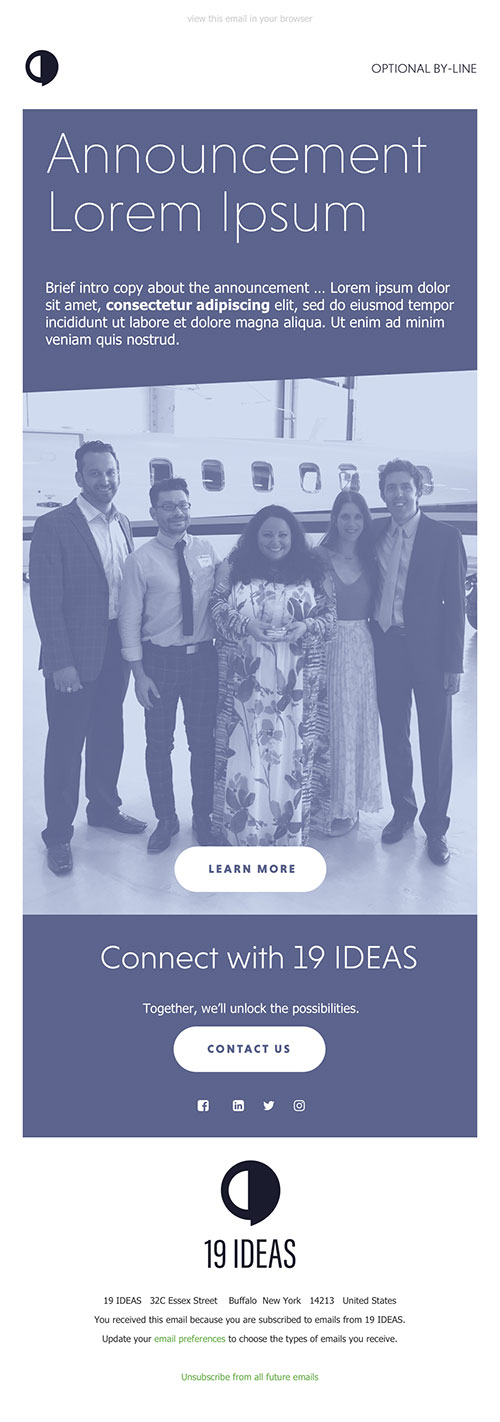
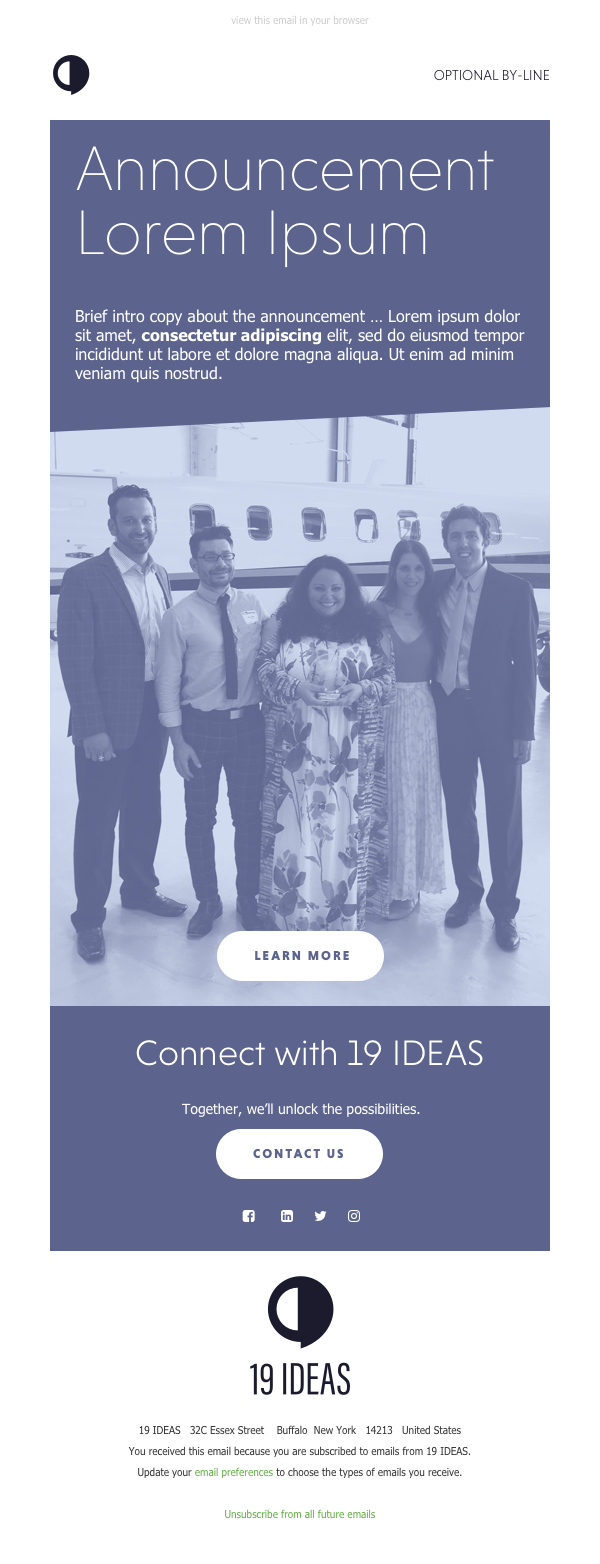
Format and Content
Tweaked some responve layouts on the case studies and added email designs to 19 IDEAS page

diff --git a/work/19-ideas.html b/work/19-ideas.html
@@ -57,19 +57,19 @@
     <!-- Overview -->
     <div class="container">
       <div class="row">
-        <div class="col-lg-4 col-md-4 col-sm-12">
+        <div class="col-lg-4 col-md-6 col-sm-12">
           <h4>CHALLENGE</h4>
           <p>19 IDEAS underwent a ground up complete rebrand in which everyone in the company had a hand in it from the design to the&nbsp;messaging.</p>
         </div>
         <div class="mobile-small-gap"></div>
-        <div class="col-lg-4 col-md-4 col-sm-12">
+        <div class="col-lg-4 col-md-6 col-sm-12">
           <h4>OUTCOME</h4>
           <p>My role was helping expand the brand based on my colleague's logo design and lead the design of our new&nbsp;website.</p>
         </div>
-        <div class="col-lg-1 col-md-1 col-sm-12">
+        <div class="col-lg-1 col-md-12 col-sm-12">
           <div class="gap"></div>
         </div>
-        <div class="col-lg-3 col-md-3 col-sm-12">
+        <div class="col-lg-3 col-md-12 col-sm-12">
           <h4>COMPLETED</h4>
           <ul class="services">
             <li class="services">User Experience</li>
@@ -139,7 +139,32 @@
         </div>
         <div class="gap"></div>
       </div>
-    </div>
+      <div class="row">
+        <div class="gap"></div>
+        <div class="col-lg-12">
+          <h3>HUBSPOT EMAILS</h3>
+        </div>
+        <div class="col-lg-12">
+          <p>For 19 IDEAS I worked to design and build a suite of emails in their Hubspot marketing platform. These included an email newsletter (which highlighted monthly articles, past work, and company updates), a website reporting email to offer insights to client's websites, and emails for big announcements and invitations.</p>
+        </div>
+        <div class="gap"></div>
+        <div class="col-lg-3 col-md-6 col-sm-12">
+          <img class="webpage-showcase" alt="19 IDEAS Newsletter" src="../images/work/19ideas/19-ideas-email-newsletter.jpg">
+        </div>
+        <div class="mobile-small-gap"></div>
+        <div class="col-lg-3 col-md-6 col-sm-12">
+          <img class="webpage-showcase" alt="19 IDEAS Reporting Email" src="../images/work/19ideas/19-ideas-email-reporting-email.jpg">
+        </div>
+        <div class="mobile-small-gap"></div>
+        <div class="col-lg-3 col-md-6 col-sm-12">
+          <img class="webpage-showcase" alt="19 IDEAS Announcment Email" src="../images/work/19ideas/19-ideas-email-announcment.jpg">
+        </div>
+        <div class="mobile-small-gap"></div>
+        <div class="col-lg-3 col-md-6 col-sm-12">
+          <img class="webpage-showcase" alt="19 IDEAS Email Invitation" src="../images/work/19ideas/19-ideas-email-invitation.jpg">
+        </div>
+        <div class="gap"></div>
+      </div>    </div>
     <!-- Connect & Next Project -->
     <div class="dot-grid">
       <div class="container" id="connect" style="padding: 0;">
@@ -155,7 +180,7 @@
             <h3>CONNECT</h3>
             <h4>LET'S WORK TOGETHER</h4>
             <p>Interested in starting a project? <strong>let's talk</strong></p>
-            <a href="contact.html" class="btn btn-primary">Connect</a>
+            <a href="../contact.html" class="btn btn-primary">Connect</a>
           </div>
         </div>
       </div>

diff --git a/work/trocaire-college.html b/work/trocaire-college.html
@@ -57,18 +57,19 @@
     <!-- Overview -->
     <div class="container">
       <div class="row">
-        <div class="col-lg-4 col-md-4 col-sm-12">
+        <div class="col-lg-4 col-md-6 col-sm-12">
           <h4>CHALLENGE</h4>
           <p>Trocaire College recognized the need to update their web and digital presence. This would include a new website, messaging, and digital marketing. Their goals included increasing enrollment, improving attendance at admissions events and developing a stronger digital connection with their&nbsp;audience.</p>
         </div>
-        <div class="col-lg-4 col-md-4 col-sm-12">
+        <div class="mobile-small-gap"></div>
+        <div class="col-lg-4 col-md-6 col-sm-12">
           <h4>OUTCOME</h4>
           <p>My role in the process was designing the user experience and user interface of the new website, helping out with messaging and integrating that into a design, and designing various digital materials used in marketing&nbsp;campaigns.</p>
         </div>
-        <div class="col-lg-1 col-md-1 col-sm-12">
+        <div class="col-lg-1 col-md-12 col-sm-12">
           <div class="gap"></div>
         </div>
-        <div class="col-lg-3 col-md-3 col-sm-12">
+        <div class="col-lg-3 col-md-12 col-sm-12">
           <h4>COMPLETED</h4>
           <ul class="services">
             <li class="services">User Experience</li>
@@ -96,7 +97,7 @@
                 <div class="col-lg-6 col-md-6">
                   <object style="width: 48px; margin-left: -5px; margin-top: 1em;" type="image/svg+xml" data="../images/icons/increased-icon.svg"></object>
                   <h4>Increased <span style="font-family: 'montserratregular';">application and acceptance rate</span></h4>
-                  <object style="width: 48px; margin-left: -5px; margin-top: 1em;" type="image/svg+xml" data="../images/icons/increased-icon.svg"></object>
+                  <object style="width: 48px; margin-left: -5px; margin-top: 1em;" type="image/svg+xml" data="../images/icons/check-icon.svg"></object>
                   <h4>Exceeded <span style="font-family: 'montserratregular';">enrollment goals by</span> 17.5 percent <span style="font-family: 'montserratregular';">year one</span> </h4>
                 </div>
               </div>

diff --git a/work/hodgson-russ.html b/work/hodgson-russ.html
@@ -57,19 +57,19 @@
     <!-- Overview -->
     <div class="container">
       <div class="row">
-        <div class="col-lg-4 col-md-4 col-sm-12">
+        <div class="col-lg-4 col-md-6 col-sm-12">
           <h4>CHALLENGE</h4>
           <p>Hodgson Russ came to 19 IDEAS to design and develop two landing pages for their company. The first was for <span style="font-family: 'montserratextrabold';">Community Voices</span> which was to become a digital space dedicated to the recognition of inspirational nonprofits instilling meaningful change in Buffalo, New York. The second was for their <span style="font-family: 'montserratextrabold';">Whistleblower Practice</span> division of Hodgson Russ. The challenge was explaining the dense subject matter in a way that reflected the tenets of expertise, compassion, sensitivities and respect that resonate with any prospective client.</p>
         </div>
         <div class="mobile-small-gap"></div>
-        <div class="col-lg-4 col-md-4 col-sm-12">
+        <div class="col-lg-4 col-md-6 col-sm-12">
           <h4>OUTCOME</h4>
           <p>We delivered to responsive modern landing pages that clearly communicate their messages. <span style="font-family: 'montserratextrabold';">Community Voices</span> became an interactive destination for inspirational stories. While the <span style="font-family: 'montserratextrabold';">Whistleblower Practice</span> page gives a new approachable and digestible overview of their whistleblower offerings.</p>
         </div>
-        <div class="col-lg-1 col-md-1 col-sm-12">
+        <div class="col-lg-1 col-md-12 col-sm-12">
           <div class="gap"></div>
         </div>
-        <div class="col-lg-3 col-md-3 col-sm-12">
+        <div class="col-lg-3 col-md-12 col-sm-12">
           <h4>COMPLETED</h4>
           <ul class="services">
             <li class="services">User Experience</li>

diff --git a/work/mike-cardus.html b/work/mike-cardus.html
@@ -57,19 +57,19 @@
     <!-- Overview -->
     <div class="container">
       <div class="row">
-        <div class="col-lg-4 col-md-4 col-sm-12">
+        <div class="col-lg-4 col-md-6 col-sm-12">
           <h4>CHALLENGE</h4>
           <p>Mike Cardus is an organization development professional and leadership coach who has received various accolades within his industry. Cardus has created numerous programs and published works helping companies and individuals worldwide. The 19 IDEAS team presented Cardus a new brand, accompanying collateral, messaging, website, and product&nbsp;design.</p>
         </div>
         <div class="mobile-small-gap"></div>
-        <div class="col-lg-4 col-md-4 col-sm-12">
+        <div class="col-lg-4 col-md-6 col-sm-12">
           <h4>OUTCOME</h4>
           <p>The 19 IDEAS team presented Cardus a new brand, accompanying collateral, messaging, website, and product design. My role included fleshing out the brand based on the work created by my colleagues, designing his new website, along with his first product, and subsequently an expansion and refresh of that same&nbsp;product.</p>
         </div>
-        <div class="col-lg-1 col-md-1 col-sm-12">
+        <div class="col-lg-1 col-md-12 col-sm-12">
           <div class="gap"></div>
         </div>
-        <div class="col-lg-3 col-md-3 col-sm-12">
+        <div class="col-lg-3 col-md-12 col-sm-12">
           <h4>COMPLETED</h4>
           <ul class="services">
             <li class="services">User Experience</li>

diff --git a/work/person-centered-services.html b/work/person-centered-services.html
@@ -57,19 +57,19 @@
     <!-- Overview -->
     <div class="container">
       <div class="row">
-        <div class="col-lg-4 col-md-4 col-sm-12">
+        <div class="col-lg-4 col-md-6 col-sm-12">
           <h4>CHALLENGE</h4>
           <p>Person Centered Services came to 19 IDEAS in search for a new look to roll out alongside with their becoming a Care Coordination Organization this&nbsp;year.</p>
         </div>
         <div class="mobile-small-gap"></div>
-        <div class="col-lg-4 col-md-4 col-sm-12">
+        <div class="col-lg-4 col-md-6 col-sm-12">
           <h4>OUTCOME</h4>
           <p>As an organization we provided design, development, and messaging to aid in their transition. My role comprised of creating the organization's brand with accompaning collatoral and a new website I designed and&nbsp;co-developed.</p>
         </div>
-        <div class="col-lg-1 col-md-1 col-sm-12">
+        <div class="col-lg-1 col-md-12 col-sm-12">
           <div class="gap"></div>
         </div>
-        <div class="col-lg-3 col-md-3 col-sm-12">
+        <div class="col-lg-3 col-md-12 col-sm-12">
           <h4>COMPLETED</h4>
           <ul class="services">
             <li class="services">Graphic Design</li>

diff --git a/work/labatt-zubaz.html b/work/labatt-zubaz.html
@@ -58,19 +58,19 @@
     <!-- Overview -->
     <div class="container">
       <div class="row">
-        <div class="col-lg-4 col-md-4 col-sm-12">
+        <div class="col-lg-4 col-md-6 col-sm-12">
           <h4>CHALLENGE</h4>
           <p>The challenge of this project was to get the word out about North American Breweries' Labatt Blue Zubaz can partnership 19 IDEAS was tasked to develop a campaign to bring awareness.</p>
         </div>
         <div class="mobile-small-gap"></div>
-        <div class="col-lg-4 col-md-4 col-sm-12">
+        <div class="col-lg-4 col-md-6 col-sm-12">
           <h4>OUTCOME</h4>
           <p>The 19 IDEAS PR team ran a targeted campaign reaching out to media influencers. To accomplish this I designed a mailer kit that featured all the can variations along with Labatt and Zubaz swag.</p>
         </div>
-        <div class="col-lg-1 col-md-1 col-sm-12">
+        <div class="col-lg-1 col-md-12 col-sm-12">
           <div class="gap"></div>
         </div>
-        <div class="col-lg-3 col-md-3 col-sm-12">
+        <div class="col-lg-3 col-md-12 col-sm-12">
           <h4>COMPLETED</h4>
           <ul class="services">
             <li class="services">Graphic Design</li>

diff --git a/work/roar-logistics.html b/work/roar-logistics.html
@@ -57,19 +57,19 @@
     <!-- Overview -->
     <div class="container">
       <div class="row">
-        <div class="col-lg-4 col-md-4 col-sm-12">
+        <div class="col-lg-4 col-md-6 col-sm-12">
           <h4>CHALLENGE</h4>
           <p>ROAR Logistics came to 19 IDEAS looking a new modern look to bring their site into the present. Our goal was to provide a rich visual feel that utilized to companies modern and sleek&nbsp;look.</p>
         </div>
         <div class="mobile-small-gap"></div>
-        <div class="col-lg-4 col-md-4 col-sm-12">
+        <div class="col-lg-4 col-md-6 col-sm-12">
           <h4>OUTCOME</h4>
           <p>We delivered a modern and responsive website that with strong imagery and visual elements. My role in the project was the user experience and design of the&nbsp;website.</p>
         </div>
-        <div class="col-lg-1 col-md-1 col-sm-12">
+        <div class="col-lg-1 col-md-12 col-sm-12">
           <div class="gap"></div>
         </div>
-        <div class="col-lg-3 col-md-3 col-sm-12">
+        <div class="col-lg-3 col-md-12 col-sm-12">
           <h4>COMPLETED</h4>
           <ul class="services">
             <li class="services">User Experience</li>

diff --git a/work/walsh-duffield.html b/work/walsh-duffield.html
@@ -57,19 +57,19 @@
     <!-- Overview -->
     <div class="container">
       <div class="row">
-        <div class="col-lg-4 col-md-4 col-sm-12">
+        <div class="col-lg-4 col-md-6 col-sm-12">
           <h4>CHALLENGE</h4>
           <p>Walsh Duffield is a local insurance firm that was looking for a web presence for their family-owned company. At 19 IDEAS we worked on a new website, creative work, and updated messaging to communicate their brand and&nbsp;values.</p>
         </div>
         <div class="mobile-small-gap"></div>
-        <div class="col-lg-4 col-md-4 col-sm-12">
+        <div class="col-lg-4 col-md-6 col-sm-12">
           <h4>OUTCOME</h4>
           <p>My role involved working on the user experience and design of the website along with accompanying design&nbsp;work.</p>
         </div>
-        <div class="col-lg-1 col-md-1 col-sm-12">
+        <div class="col-lg-1 col-md-12 col-sm-12">
           <div class="gap"></div>
         </div>
-        <div class="col-lg-3 col-md-3 col-sm-12">
+        <div class="col-lg-3 col-md-12 col-sm-12">
           <h4>COMPLETED</h4>
           <ul class="services">
             <li class="services">User Experience</li>

diff --git a/work/a-jaunt-with-joy.html b/work/a-jaunt-with-joy.html
@@ -58,19 +58,19 @@
     <!-- Overview -->
     <div class="container">
       <div class="row">
-        <div class="col-lg-4 col-md-4 col-sm-12">
+        <div class="col-lg-4 col-md-6 col-sm-12">
           <h4>CHALLENGE</h4>
           <p>Joy Sheehan is a world traveler and photographer who was looking to share experiences with the&nbsp;world.</p>
         </div>
         <div class="mobile-small-gap"></div>
-        <div class="col-lg-4 col-md-4 col-sm-12">
+        <div class="col-lg-4 col-md-6 col-sm-12">
           <h4>OUTCOME</h4>
           <p>I worked closely with her to design a brand as well as design and develop a website to get her vision out&nbsp;there.</p>
         </div>
-        <div class="col-lg-1 col-md-1 col-sm-12">
+        <div class="col-lg-1 col-md-12 col-sm-12">
           <div class="gap"></div>
         </div>
-        <div class="col-lg-3 col-md-3 col-sm-12">
+        <div class="col-lg-3 col-md-12 col-sm-12">
           <h4>COMPLETED</h4>
           <ul class="services">
             <li class="services">User Experience</li>
